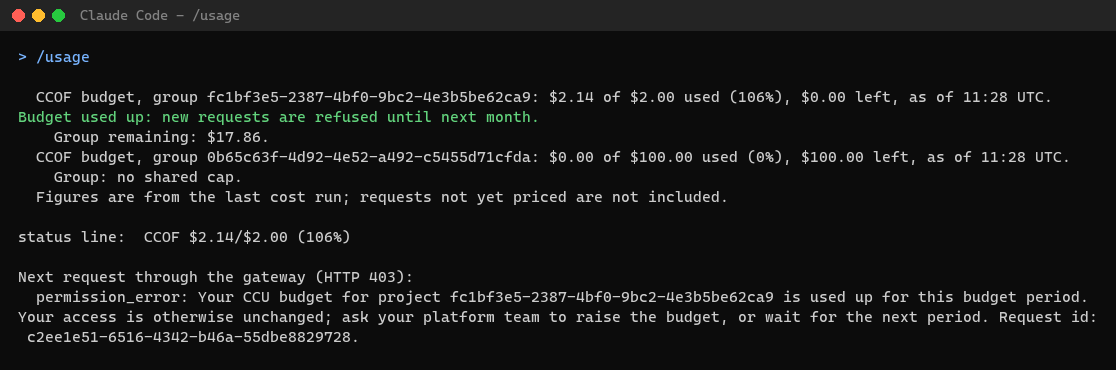
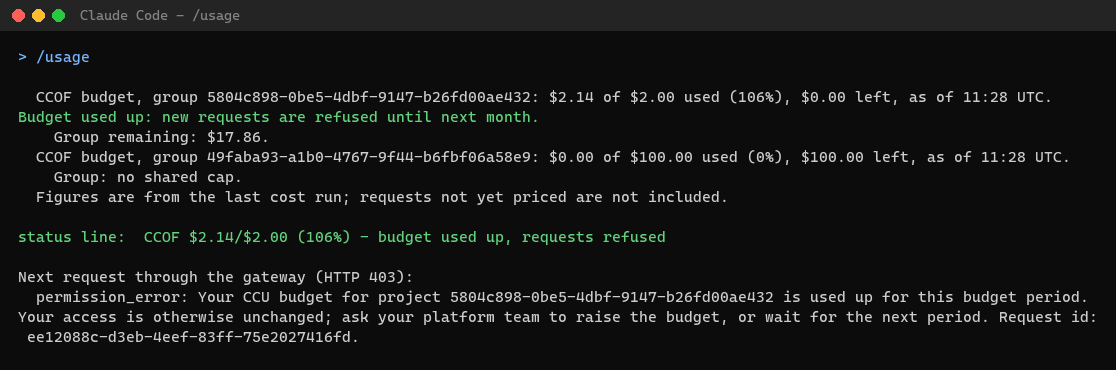
release 11: first-time reader follow-up
Explains the main deployment values and the single-subscription lab route, uses the readable onboarding review screenshot, refreshes the exhausted-budget output with the current status line, and simplifies the README live summary.

Copilot-Session: 5bb3e04f-333e-428c-9afa-3adedd66884c

diff --git a/tests/docs-reader-pages.test.ts b/tests/docs-reader-pages.test.ts
@@ -60,3 +60,37 @@ test("developer login and snapshot onboarding include the configuration handoff"
   assert.match(members, /all registered group IDs/i);
   assert.match(read("docs/get-started/04-onboard-a-group.md"), /successful sync or snapshot/i);
 });
+
+test("deployment setup shows key configuration values and a lab path", () => {
+  const deploy = read("docs/get-started/03-deploy.md");
+  for (const key of ['"tenantId"', '"subscriptionId"', '"resourceGroup"', '"location"', '"prefix"', '"accountName"']) {
+    assert.ok(deploy.includes(key), `deployment guide shows ${key}`);
+  }
+  assert.match(deploy, /not a complete configuration/i);
+  const prerequisites = read("docs/get-started/02-prerequisites.md");
+  assert.match(prerequisites, /single-subscription lab/i);
+  assert.match(prerequisites, /network\.mode: create/);
+  assert.match(prerequisites, /charges?/i);
+});
+
+test("README live acceptance summary is understandable without gateway jargon", () => {
+  const readme = read("README.md");
+  const section = readme.split("## Live acceptance")[1]?.split("\n## ")[0] ?? "";
+  assert.ok(section, "README has a Live acceptance section");
+  assert.match(section, /group-specific model access/i);
+  assert.match(section, /budget exhaustion/i);
+  assert.match(section, /chargeback report/i);
+  assert.match(section, /detailed report/i);
+  assert.doesNotMatch(section, /bypass|CCU|list-rate|streamed cache/i);
+});
+
+test("budget-exhausted evidence describes the current status-line output", () => {
+  const evidence = read("docs/evidence/2026-10-24-demo/README.md");
+  assert.match(evidence, /refreshed by rendering the saved `\/usage` response.*current client formatter/i);
+  assert.doesNotMatch(evidence, /predates the status-line fix/i);
+  const source = read("docs/evidence/2026-10-24-demo/usage-03-refused.txt");
+  assert.match(source, /status line:\s+CCOF \$2\.14\/\$2\.00 \(106%\) - budget used up, requests refused/);
+  const onboarding = read("docs/get-started/04-onboard-a-group.md");
+  assert.match(onboarding, /console-04-review\.png/);
+  assert.doesNotMatch(onboarding, /console-03-access-models\.png/);
+});

diff --git a/README.md b/README.md
@@ -30,18 +30,16 @@ Then: [users and groups](docs/operate/users-and-groups.md) · [budgets](docs/ope
 [chargeback](docs/operate/chargeback-and-tags.md) · [troubleshooting](docs/operate/troubleshooting.md) ·
 [all documentation](docs/INDEX.md) · [glossary](docs/GLOSSARY.md).
 
-## Proven live
+## Live acceptance
 
-On 2026-10-24 live acceptance runs covered:
+Live checks confirmed group-specific model access, refusal after budget exhaustion, and a person's *WBS ID* in the
+downloaded chargeback report. The USD 10 test recorded USD 11.25 (USD 11.97 at list rates); a later guarded USD 14
+run recorded USD 13.84. The guard reduces overshoot but is not a strict spending cap.
 
-- through the gateway: allowed models `200`, other models `403`, 23 bypass attempts refused or confined to the
-  person's other budget;
-- a USD 10 budget used up and refused; with the budget guard, a USD 14 budget ended at USD 13.84;
-- the admin console's *WBS ID* field and a person's tag in the downloaded chargeback CSV.
-
-A separate fresh demo deployment passed all nine stages and captured the expected outcomes. Its USD 2 budget
-ended at USD 2.14 with the guard set to 25%. Screenshots: [evidence](docs/evidence/2026-10-24-demo/README.md). Test report:
-[budget and group acceptance](docs/status/BUDGET-ACCEPTANCE-2026-10-23.md).
+The detailed report records 23 attempts to get around model and budget rules and their outcomes:
+[budget and group acceptance](docs/status/BUDGET-ACCEPTANCE-2026-10-23.md). A separate lab passed all nine deployment
+stages; its USD 2 demonstration ended at USD 2.14 with a 25% guard setting. Screenshots:
+[demo evidence](docs/evidence/2026-10-24-demo/README.md).
 
 Deployment creates billable Azure resources and needs directory and resource permissions. Reported costs are list
 price at the rate card, not an Azure invoice.

diff --git a/docs/STATUS.md b/docs/STATUS.md
@@ -2,7 +2,22 @@
 
 ## Group-centric onboarding
 
-**Active packet:** G-DOCS — reader-facing documentation and pseudonymised demo evidence ([ROADMAP](ROADMAP.md)).
+**Active packet:** G-DOCS-R1 — first-time reader follow-up (complete; [ROADMAP](ROADMAP.md)).
+
+### G-DOCS-R1 — first-time reader follow-up (complete, 2026-10-24)
+
+- Acceptance: key deployment values shown; measured single-subscription lab route includes duration, permissions and
+  charges; onboarding guide uses the readable review screen; exhausted-budget output uses the current status-line
+  formatter; README summary uses reader-facing language. Complete.
+- Scope: documentation and evidence only; no Azure deployment or product behavior changes. The screenshot was
+  refreshed from the saved usage response; no paid model request was made.
+- Checks: reader docs and pseudonymisation 13/13; client usage 16/16; `node .ironclad/gate.mjs --stage packet`
+  PASS (23 passed, 2 pre-existing warnings for G-R3 and E2E-01, 1 skipped). Gate's full `npm test` passed.
+- Council: Architect PASS (no architecture changes); Coder PASS (focused documentation and recorded output);
+  QA PASS (new reader assertions and existing status-line regression); UX PASS (cost/permissions surfaced and
+  field labels readable); Security PASS (configured identifier scan clean, no secrets or live calls).
+- Source commit: `032aeb1` (`docs: clarify first-time setup and evidence`), local `main`; no Azure deployment or
+  public release in this follow-up.
 
 ### G-DOCS — documentation refresh (2026-10-24, source complete)
 

diff --git a/docs/ROADMAP.md b/docs/ROADMAP.md
@@ -40,7 +40,8 @@
 | G-LIMIT — Live budget and group acceptance | Complete (live) | USD 10 through the gateway, family limit, higher-spend selection, bypass attempts, WBS ID chargeback, guide walkthrough ([report](status/BUDGET-ACCEPTANCE-2026-10-23.md)). Open: E2E-01 |
 | G-FRAG — Policy fragment cleanup | Pending | Content-addressed fragments (ADR-0039) from earlier policies stay in API Management. Remove fragments no API policy or revision references, after a deployment verifies |
 | G-GUARD — Budget guard | Complete (live) | Projected spend, rate guard, 80% warning in `/usage` and the status line; USD 14 budget ended 1.1% under ([ADR-0040](adr/0040-budget-guard.md)) |
-| G-DOCS — Reader documentation | Complete | Role-based short pages, fresh Stages 0-8 lab, 44 pseudonymised screenshots, own-usage and CSV evidence; council, strict typecheck and packet gate pass |
+| G-DOCS — Reader documentation | Complete | Role-based short pages, fresh Stages 0-8 lab, 44 pseudonymised screenshots, own-usage and CSV evidence; council, strict typecheck, packet gate and public CI pass (release 10, `2f84715`) |
+| G-DOCS-R1 — First-time reader follow-up | Complete | Main deployment values and single-subscription lab route explained; readable review screenshot, current exhausted-budget output and plain-language live summary |
 
 Gate follow-ups (existing): split oversized legacy UI/staged files by responsibility; keep the Power BI authentication
 and backend-429 billing unknowns open until independently verified. G-DOCS does not change those behaviors.

diff --git a/docs/get-started/03-deploy.md b/docs/get-started/03-deploy.md
@@ -16,13 +16,36 @@ npm ci --ignore-scripts --include=dev
 az account set --subscription '<subscription-id>'
 New-Item -ItemType Directory -Force $HOME/ccof-private | Out-Null
 Copy-Item infra/staged/staged.config.example.json $HOME/ccof-private/staged.config.json
-code $HOME/ccof-private/staged.config.json        # replace every REPLACE- value
+code $HOME/ccof-private/staged.config.json
 $cfg = "$HOME/ccof-private/staged.config.json"
 $run = "infra/staged/Invoke-StagedDeployment.ps1"
 ```
 
-The configuration keys are listed in [guide 3.3](../STAGED-DEPLOYMENT-GUIDE.md#33-configuration-file). For each
-stage: run it without `-Apply`, read the preview, have the stage's owner approve, then run it with `-Apply`.
+Set the main deployment values first:
+
+```json
+{
+  "tenantId": "<tenant-guid>",
+  "subscriptionId": "<subscription-guid>",
+  "resourceGroup": "ccof-lab-rg",
+  "location": "eastus2",
+  "stage1": {
+    "prefix": "ccoflab",
+    "foundry": {
+      "create": true,
+      "accountName": "<unique-foundry-name>"
+    }
+  },
+  "network": {
+    "mode": "create"
+  }
+}
+```
+
+This is an example of the main choices, not a complete configuration file. Keep the copied template and fill every
+applicable `REPLACE-` value, including backend and group settings. Use `network.mode: create` only for a lab.
+The full key reference is [guide 3.3](../STAGED-DEPLOYMENT-GUIDE.md#33-configuration-file). For each stage, run
+without `-Apply`, review the preview with its owner, then run with `-Apply`.
 
 ---
 

diff --git a/docs/evidence/2026-10-24-demo/README.md b/docs/evidence/2026-10-24-demo/README.md
@@ -56,15 +56,16 @@ was used up. `/usage` was saved every minute.
 | --- | --- | --- |
 | Normal | USD 0.57 of 2.00 (28%) | `usage-01-normal.png` |
 | Warning (projected 84%) | USD 1.20 of 2.00 (60%), requests slowed | `usage-02-warning.png` |
-| Used up | USD 2.14 of 2.00 (106%), next request `403 permission_error` | `usage-03-refused.png` |
+| Used up | USD 2.14 of 2.00 (106%), next request `403 permission_error` | [`usage-03-refused.png`](usage-03-refused.png), [text output](usage-03-refused.txt) |
 
 Result: 71 requests succeeded, 95 were slowed (`429` with `Retry-After`) and 69 were refused (`403`). Final recorded
 spend USD 2.14 against USD 2.00, 7% over, within the configured `overshootPercent` of 25. The client's own sum of
 response costs was USD 2.13. The run paused for about 50 minutes when the workstation slept; it resumed without
 changes.
 
-The exhausted capture predates the status-line fix: it shows the spend percentage without a refusal suffix.
-The client now adds `- budget used up, requests refused`; the capture is retained as the actual run output.
+The refusal screenshot was refreshed by rendering the saved `/usage` response from this run with the current client formatter.
+The request amounts and HTTP 403 response are from the recorded run; the refreshed status line shows
+`- budget used up, requests refused`.
 
 ## Console and chargeback
 

diff --git a/docs/get-started/02-prerequisites.md b/docs/get-started/02-prerequisites.md
@@ -3,6 +3,18 @@
 Tick every line before Stage 0. Each item names who provides it. Details and least-privilege roles:
 [staged guide, section 2](../STAGED-DEPLOYMENT-GUIDE.md#2-prerequisites).
 
+## Single-subscription lab path
+
+The 2026-10-24 lab used one Azure subscription and `network.mode: create`; Stage 6 created its own VNet and
+integrations. Stages 0–8 took 62 minutes in that run. Times vary. API Management, Cosmos DB and Functions incur
+charges while deployed; model calls add usage charges.
+
+The lab path still needs a subscription with quota for the selected Claude models, a new empty resource group,
+platform Contributor and Role Based Access Control Administrator access, and an Entra administrator or owners of
+the three existing app registrations. Existing Entra apps and groups can be reused when approved. Set
+`network.mode` to `create` only for a lab; production deployments use a customer-built network and `verify` mode.
+The [demo evidence](../evidence/2026-10-24-demo/README.md) records which directory objects were reused.
+
 ## People and approvals
 
 - [ ] **Platform engineer** with Contributor on a new, empty resource group (and permission to create it).

diff --git a/docs/get-started/04-onboard-a-group.md b/docs/get-started/04-onboard-a-group.md
@@ -30,13 +30,13 @@ it), **priority** (when a person is in several groups and names none: the group 
 then the lower number), and the **models**: the families and exact model IDs, with optional token limits per person
 and per group. Restricted families (Fable, Mythos) only with approval.
 
-![Step 3: surfaces, chargeback ID, priority, models and limits](../evidence/2026-10-24-demo/console-03-access-models.png)
+The next review step shows the requested chargeback ID and priority by name before submission.
 
 ## Step 4 — Review and onboard
 
 The page shows the exact request. **Onboard group** saves it; the change is recorded in the audit log.
 
-![Step 4: the request to be saved](../evidence/2026-10-24-demo/console-04-review.png)
+![Step 4 review: chargeback ID, priority and admitted models shown by name before saving](../evidence/2026-10-24-demo/console-04-review.png)
 
 ## Expected result
 

diff --git a/docs/CHANGELOG.md b/docs/CHANGELOG.md
@@ -1,5 +1,15 @@
 # Change log
 
+## 2026-10-24 — First-time reader follow-up
+
+- Added an example of the main staged-deployment values and a single-subscription lab path with measured duration,
+  permissions and ongoing Azure cost note.
+- Replaced the clipped onboarding screenshot in the reader path with the review screen that labels chargeback ID,
+  priority and admitted models.
+- Refreshed the exhausted-budget screenshot from the captured usage response using the current client status-line
+  formatter; the saved text output accompanies the image.
+- Replaced the README's gateway-oriented acceptance details with a short user-facing result and a report link.
+
 ## 2026-10-24 — Reader documentation and demo screenshots
 
 - Short README, documentation index and glossary, five get-started pages and four operate pages. Earlier guides
